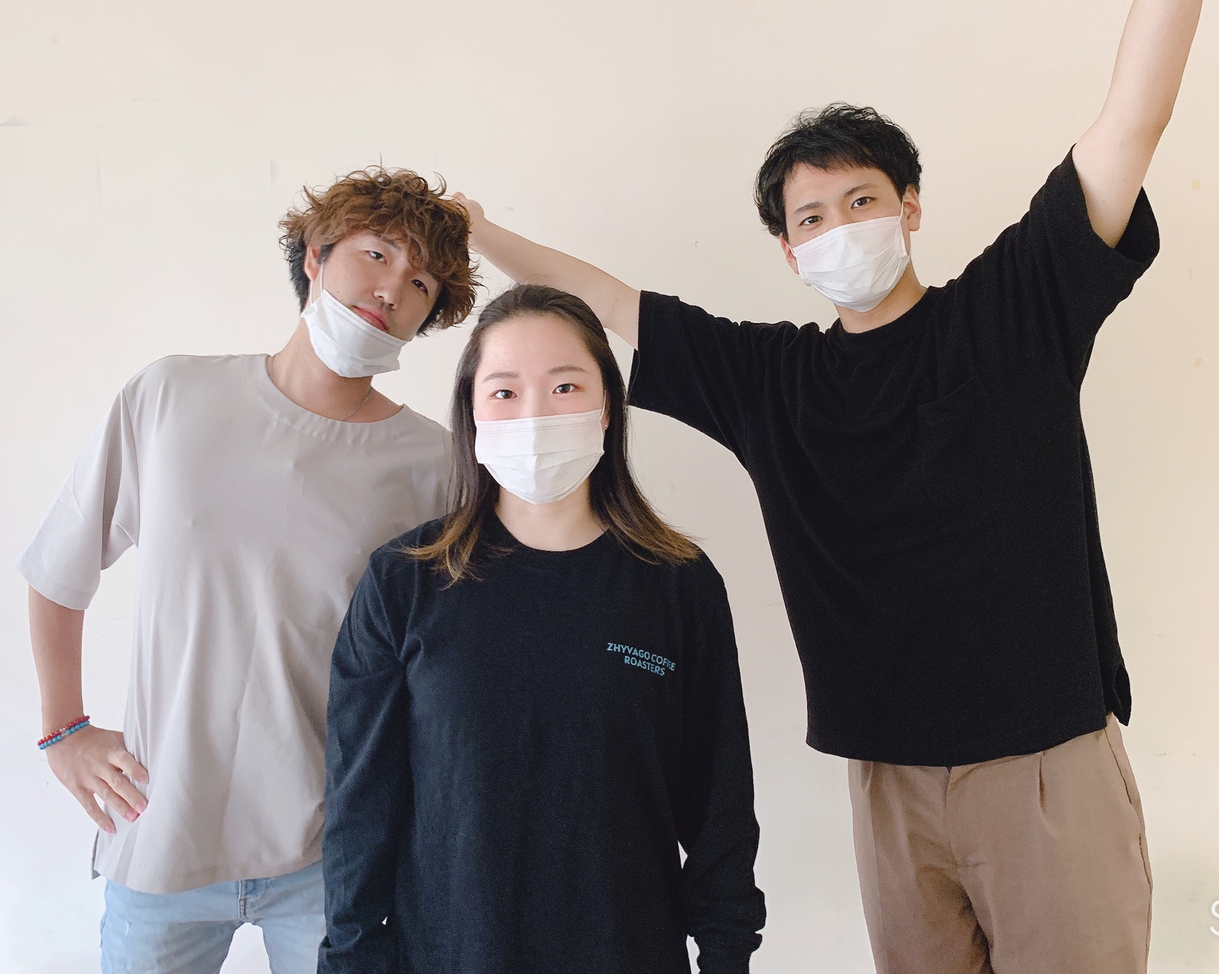
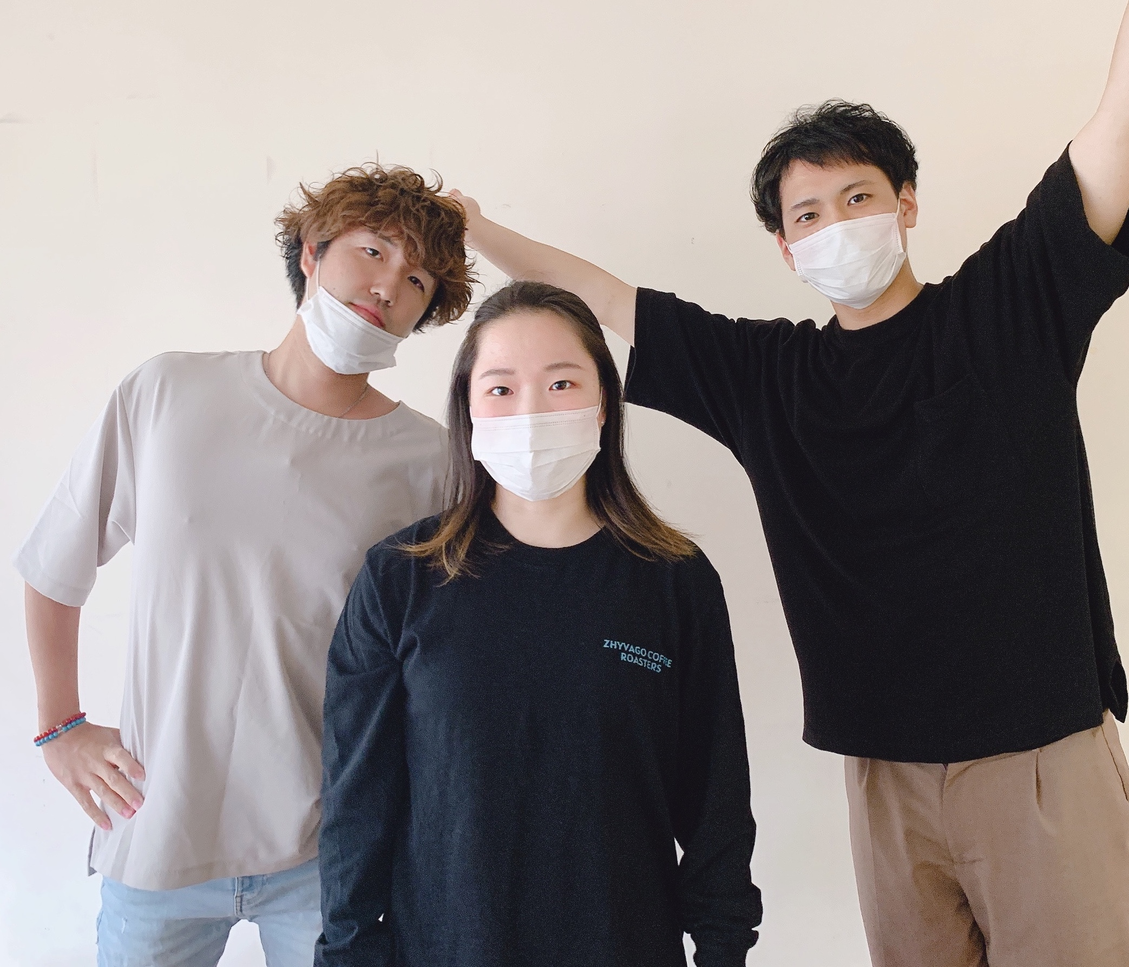
画像サイズ変更 html変更

diff --git a/index.html b/index.html
@@ -18,14 +18,16 @@
       <!-- header-left -->
       <div class="header-left">
         <div class="header-logo">
-          Y O U
+          <h1 class="company">Y O U</h1>
         </div>
       </div>
       <!-- header-right -->
       <div class="header-right">
       </div>
     </header>
-    <main></main>
+    <main>
+
+    </main>
   </div>
   <footer></footer>
   <script src="./assets/js/app.js"></script>
